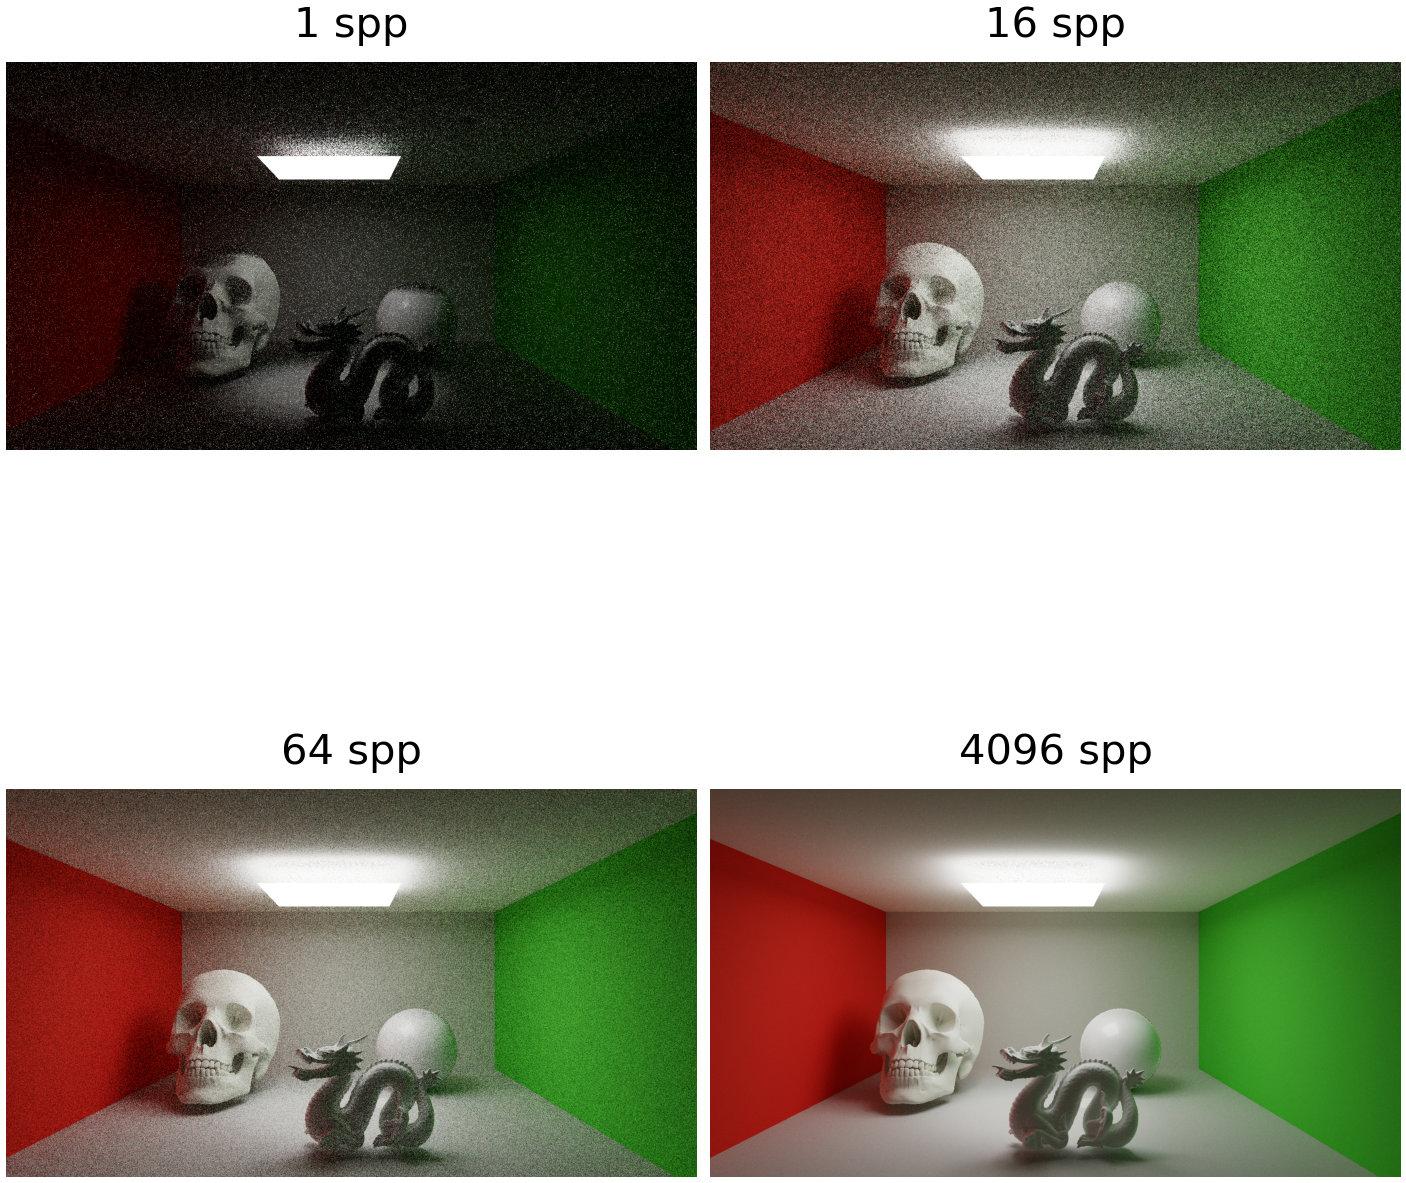
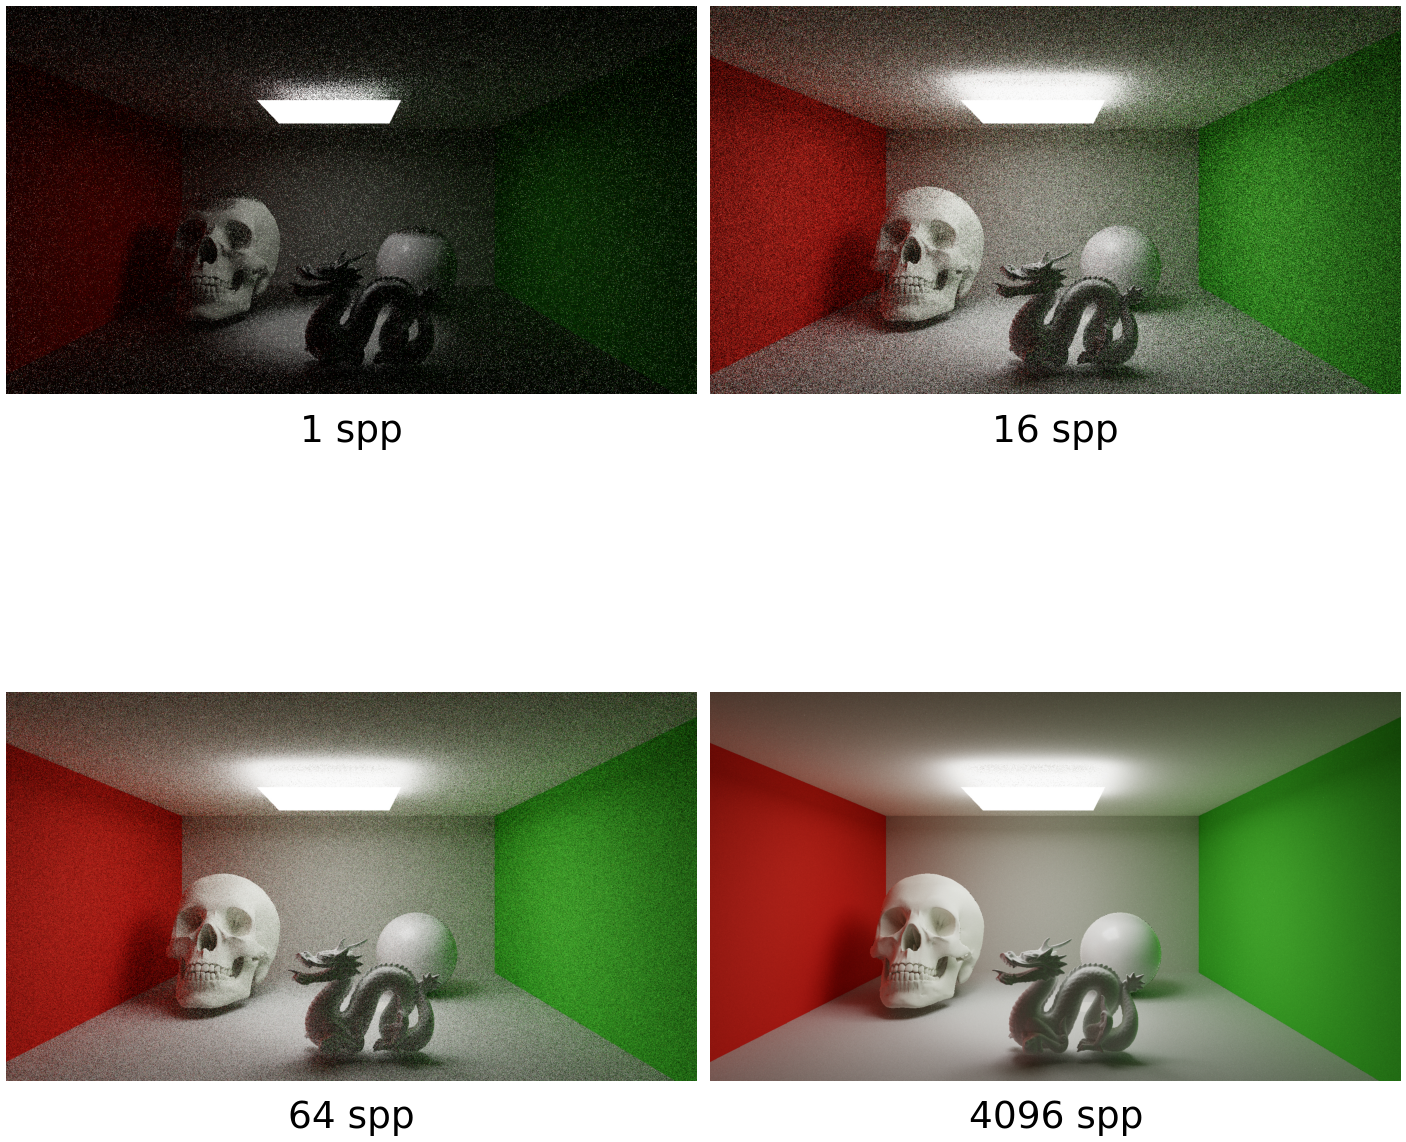
Add original renders to docs and update README for better spacing on convergence figure

diff --git a/experiments/runs/28_03_2026_12_52_run_1/run_1_analysis.py b/experiments/runs/28_03_2026_12_52_run_1/run_1_analysis.py
@@ -53,11 +53,35 @@ def save_square_comparison(images, titles, path):
 
     for i, ax in enumerate(axes):
         ax.imshow(images[i])
-        ax.set_title(titles[i], fontsize=10)
+        ax.text(0.5, -0.05, titles[i],
+        transform=ax.transAxes,
+        ha='center', va='top', fontsize=9)        
         ax.axis("off")
 
     # Tight layout for paper-ready look
-    plt.subplots_adjust(wspace=0.02, hspace=0.15)
+    plt.subplots_adjust(wspace=0.02, hspace=0.02)
+
+    # Save high quality
+    plt.savefig(path, dpi=300, bbox_inches='tight', pad_inches=0.02)
+    plt.close(fig)
+
+def save_row_comparison(images, titles, path):
+    assert len(images) == 2, "This function expects exactly 4 images for a 2x2 grid."
+
+    fig, axes = plt.subplots(1, 2, figsize=(6, 6))  # square figure
+
+    # Flatten for easy iteration
+    axes = axes.flatten()
+
+    for i, ax in enumerate(axes):
+        ax.imshow(images[i])
+        ax.text(0.5, -0.05, titles[i],
+        transform=ax.transAxes,
+        ha='center', va='top', fontsize=9)        
+        ax.axis("off")
+
+    # Tight layout for paper-ready look
+    plt.subplots_adjust(wspace=0.02, hspace=0.02)
 
     # Save high quality
     plt.savefig(path, dpi=300, bbox_inches='tight', pad_inches=0.02)
@@ -120,7 +144,25 @@ def main():
     
     print(f"Saved comparison grid → {grid_path}")
     
+    row1_path = os.path.join(output_dir, "comparison_row1.png")
+    
+    save_row_comparison(
+        [img_1, img_16],
+        ["1 spp", "16 spp"],
+        row1_path
+    )
+    
+    print(f"Saved comparison row1 → {row1_path}")
+    
+    row2_path = os.path.join(output_dir, "comparison_row2.png")
 
+    save_row_comparison(
+        [img_64, img_gt],
+        ["64 spp", "4096 spp"],
+        row2_path
+    )
+    
+    print(f"Saved comparison row2 → {row2_path}")
 
 
 # ----------------------------

diff --git a/README.md b/README.md
@@ -9,9 +9,9 @@ While I have previous experience with rasterization-based engines made in Direct
 
 Most recent results following implementation of MIS, NEE, denoising and temporal accumulation:
 
-[![Nocte Engine DXR Path Tracing](./docs/images/comparison_strip.png)](./docs/images/comparison_strip.png)
+[![Nocte Engine DXR Path Tracing](./docs/images/comparison_row1.png)](./docs/images/comparison_row1_.png)
 
-From left to right, 1spp, 16spp, 64spp and 4096spp with denoising and temporal accumulation enabled.
+[![Nocte Engine DXR Path Tracing](./docs/images/comparison_row2.png)](./docs/images/comparison_row2.png)
 
 The images below showcase various visual results achieved with Nocte Engine throughout development. Each scene highlights different aspects of the engine's capabilities.
 
